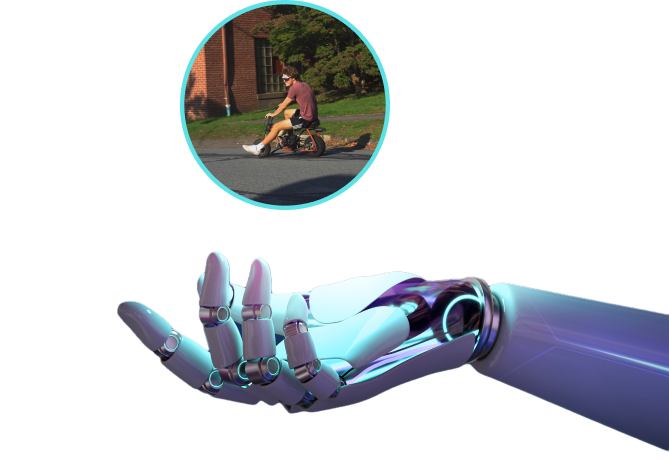
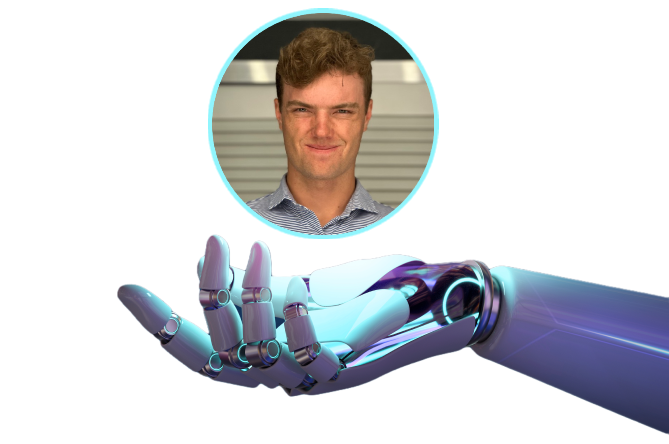
change profile image

diff --git a/src/assets/index.js b/src/assets/index.js
@@ -20,10 +20,7 @@ import facebook from "./facebook.svg";
 import instagram from "./instagram.svg";
 import linkedin from "./linkedin.svg";
 import twitter from "./twitter.svg";
-import people01 from "./people01.png";
-import people02 from "./people02.png";
-import people03 from "./people03.png";
-import profilepic from "./profilepic.jpg";
+import profilepic from "./profilepic.png";
 import robothand from "./robothand.png";
 import robotwithball from "./robotwithball.png";
 import github from "./github.svg";
@@ -51,9 +48,6 @@ export {
   instagram,
   linkedin,
   twitter,
-  people01,
-  people02,
-  people03,
   profilepic,
   robothand,
   robotwithball,
